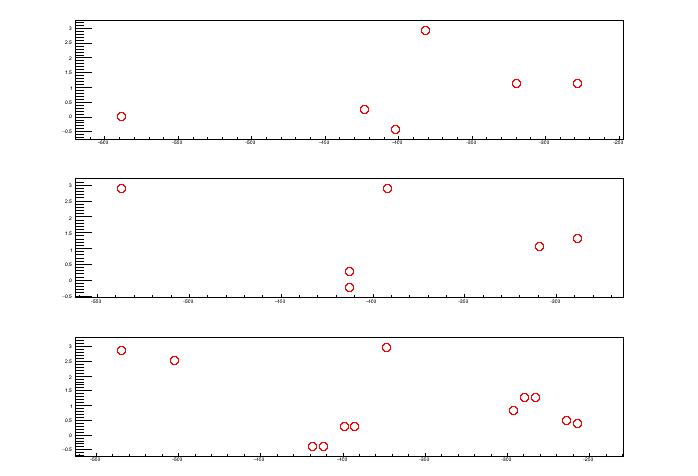
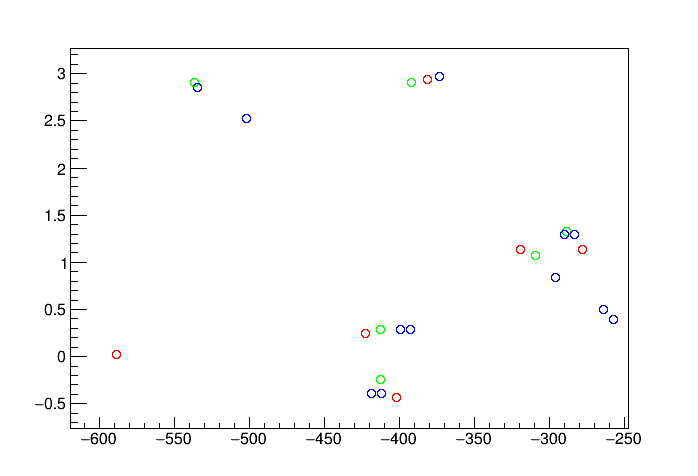
basic tracking

diff --git a/mu3e/pixhits.c b/mu3e/pixhits.c
@@ -75,9 +75,9 @@ void pixhits()
     auto inner_pix_hits = new TGraph();
     auto outer_pix_hits = new TGraph();
     tile_hits->SetMarkerStyle(4);  
-    tile_hits->SetMarkerColor(kRed);
+    tile_hits->SetMarkerColor(kBlue);
     inner_pix_hits->SetMarkerStyle(4);  
-    inner_pix_hits->SetMarkerColor(kRed);
+    inner_pix_hits->SetMarkerColor(kGreen);
     outer_pix_hits->SetMarkerStyle(4);  
     outer_pix_hits->SetMarkerColor(kRed);
 
@@ -134,11 +134,9 @@ void pixhits()
 
 
     auto canvas3 = new TCanvas();
-    canvas3->Divide(1,3);
-    canvas3->cd(1); outer_pix_hits->Draw("AP");
-    canvas3->cd(2); inner_pix_hits->Draw("AP");
-    canvas3->cd(3); tile_hits->Draw("AP");
+    outer_pix_hits->Draw("AP");
+    inner_pix_hits->Draw("P");
+    tile_hits->Draw("P");
     canvas3->SaveAs("./Images/Tracking/BasicTracking.png");
-
 
 }
